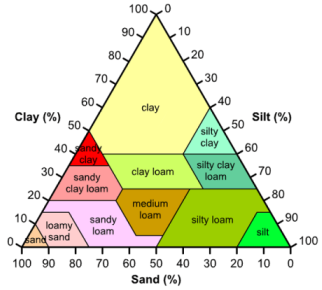
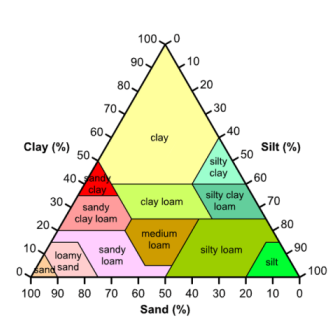
draw points inside textural triangle

Changed region(s): [[0.0, 0.0, 0.9938, 0.9931], [0.4348, 0.3414, 0.528, 0.4655]]

diff --git a/lib/soilWidget/soilWidget.cpp b/lib/soilWidget/soilWidget.cpp
@@ -32,6 +32,7 @@
 #include "soilDbTools.h"
 #include "commonConstants.h"
 
+#include <math.h>
 #include <QSqlDatabase>
 #include <QSqlQuery>
 #include <QString>
@@ -58,9 +59,10 @@ Crit3DSoilWidget::Crit3DSoilWidget()
     QVBoxLayout *texturalLayout = new QVBoxLayout();
     QGridLayout *infoLayout = new QGridLayout();
 
-    QPixmap pic("../../DOC/img/textural_soil.png");
-    QLabel *label = new QLabel();
-    label->setPixmap (pic);
+    picPath = "../../DOC/img/textural_soil.png";
+    pic.load(picPath);
+    labelPic = new QLabel();
+    labelPic->setPixmap(pic);
 
     infoGroup = new QGroupBox(tr(""));
     infoGroup->setMaximumWidth(pic.width());
@@ -121,7 +123,7 @@ Crit3DSoilWidget::Crit3DSoilWidget()
     mainLayout->addLayout(soilLayout);
     mainLayout->setAlignment(Qt::AlignTop);
 
-    texturalLayout->addWidget(label);
+    texturalLayout->addWidget(labelPic);
     texturalLayout->setAlignment(Qt::AlignTop);
     texturalLayout->addWidget(infoGroup);
 
@@ -244,6 +246,10 @@ void Crit3DSoilWidget::on_actionOpenSoilDB()
 
 void Crit3DSoilWidget::on_actionChooseSoil(QString soilCode)
 {
+
+    // re load textural triangle to clean previous circle
+    pic.load(picPath);
+    labelPic->setPixmap(pic);
     // soilListComboBox has been cleared
     if (soilCode.isEmpty())
     {
@@ -371,6 +377,27 @@ void Crit3DSoilWidget::on_actionDeleteHorizon()
 
 void Crit3DSoilWidget::setInfoTextural(int nHorizon)
 {
+
+    // re load textural triangle to clean previous circle
+    pic.load(picPath);
+    labelPic->setPixmap(pic);
+    if (mySoil.horizon[nHorizon].dbData.sand + mySoil.horizon[nHorizon].dbData.silt + mySoil.horizon[nHorizon].dbData.clay == 100)
+    {
+        // the pic has white space around the triangle: widthTriangle and heightTriangle define triangle size without white space
+        double widthOffset = (pic.width() - widthTriangle)/2;
+        double heightOffset = (pic.height() - heightTriangle)/2;
+        double factor = ( pow ( (pow(100.0, 2.0) - pow(50.0, 2.0)), 0.5) ) / 100;
+        // draw new point
+        double cx = widthTriangle * ((mySoil.horizon[nHorizon].dbData.silt + mySoil.horizon[nHorizon].dbData.clay / 2) / 100);
+        double cy =  heightTriangle * (1 - mySoil.horizon[nHorizon].dbData.clay  / 2 * pow (3, 0.5) / 100 / factor); // tg(60°)=3^0.5
+        painter.begin(&pic);
+        painter.setBrush(Qt::red);
+        QPointF center(widthOffset + cx, heightOffset + cy);
+        painter.drawEllipse(center,6,6);
+        painter.end();
+        labelPic->setPixmap(pic);
+    }
+
     if (mySoil.horizon[nHorizon].vanGenuchten.thetaS == NODATA)
     {
         satValue->setText(QString::number(NODATA));
@@ -417,3 +444,4 @@ void Crit3DSoilWidget::setInfoTextural(int nHorizon)
     }
 
 }
+

diff --git a/lib/soilWidget/soilWidget.h b/lib/soilWidget/soilWidget.h
@@ -61,6 +61,15 @@
             QAction* useData;
             QAction* airEntry;
 
+            QPixmap pic;
+            QString picPath;
+            QPainter painter;
+            QLabel *labelPic;
+
+            // USDA textural triangle size inside picture pic
+            constexpr static const double widthTriangle = 271.0;
+            constexpr static const double heightTriangle = 236.0;
+
             void on_actionOpenSoilDB();
             void on_actionSave();
             void on_actionNewSoil();
